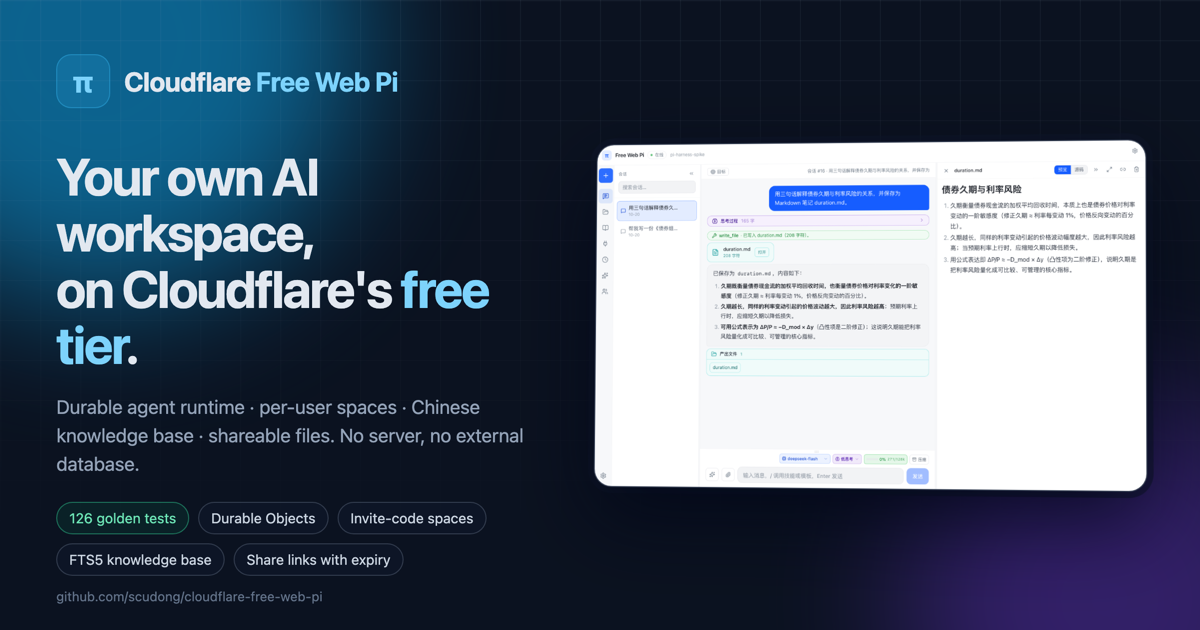
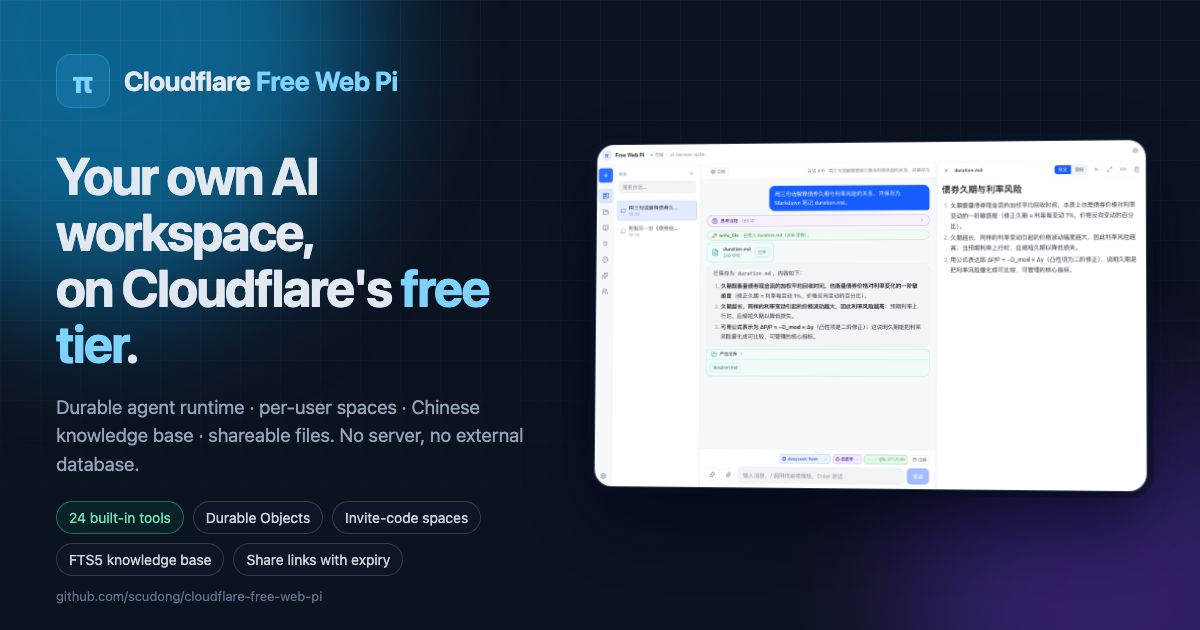
docs: 门户面清理——CI 徽章、在线地址、工具数与测试数对齐（v0.54.0）
- README 首页: 硬编码 tests-126 徽章换成 CI workflow 徽章（不再过期）；
  首屏加入在线地址 + 邀请码入口；测试数 126 → 128，并标注耗时约 40 秒
- README 首页: 内置工具数 27 → 24（按 src/worker.ts 实际注册清点）
- README.zh-CN: 补 icon / 徽章 / 语言切换首屏，与英文版对齐；
  版本里程碑从 v0.30 补到 v0.53；工具清单补齐 ask_user / set_goal /
  complete_goal / report_goal / install_skill 共 24 个；npm test 耗时 3 秒 → 40 秒
- marketing/social-preview.html: 过期 chip「126 golden tests」→「24 built-in tools」，
  重新生成 docs/social-preview.png 与 src/web/public/social-preview.png（1200×630）

diff --git a/marketing/social-preview.html b/marketing/social-preview.html
@@ -67,7 +67,7 @@
       <h1>Your own AI workspace,<br>on Cloudflare's <em>free tier</em>.</h1>
       <p class="sub">Durable agent runtime · per-user spaces · Chinese knowledge base · shareable files. No server, no external database.</p>
       <div class="chips">
-        <span class="chip hot">126 golden tests</span>
+        <span class="chip hot">24 built-in tools</span>
         <span class="chip">Durable Objects</span>
         <span class="chip">Invite-code spaces</span>
         <span class="chip">FTS5 knowledge base</span>

diff --git a/README.md b/README.md
@@ -9,12 +9,14 @@
 **Durable agent runtime · per-user spaces · Chinese knowledge base · files shared from your own domain.**<br>
 One Worker and Durable Objects. No server, no external database.
 
-[![Release](https://img.shields.io/github/v/release/scudong/cloudflare-free-web-pi?label=release&color=0ea5e9)](https://github.com/scudong/cloudflare-free-web-pi/releases) [![Stars](https://img.shields.io/github/stars/scudong/cloudflare-free-web-pi?style=flat&color=0ea5e9)](https://github.com/scudong/cloudflare-free-web-pi/stargazers) [![License](https://img.shields.io/badge/license-MIT-0ea5e9)](LICENSE) [![Tests](https://img.shields.io/badge/tests-126-22c55e)](tests)<br>
+[![Release](https://img.shields.io/github/v/release/scudong/cloudflare-free-web-pi?label=release&color=0ea5e9)](https://github.com/scudong/cloudflare-free-web-pi/releases) [![Stars](https://img.shields.io/github/stars/scudong/cloudflare-free-web-pi?style=flat&color=0ea5e9)](https://github.com/scudong/cloudflare-free-web-pi/stargazers) [![License](https://img.shields.io/badge/license-MIT-0ea5e9)](LICENSE) [![Deploy](https://github.com/scudong/cloudflare-free-web-pi/actions/workflows/deploy.yml/badge.svg)](https://github.com/scudong/cloudflare-free-web-pi/actions/workflows/deploy.yml)<br>
 ![Cloudflare Workers](https://img.shields.io/badge/Cloudflare-Workers-F38020?logo=cloudflare&logoColor=white) ![Durable Objects](https://img.shields.io/badge/Durable%20Objects-SQLite-0ea5e9) ![React](https://img.shields.io/badge/React-19-61DAFB?logo=react&logoColor=white) ![TypeScript](https://img.shields.io/badge/TypeScript-3178C6?logo=typescript&logoColor=white)
 
-**English** · [简体中文](README.zh-CN.md) · [Quick start](#quick-start) · [Features](#what-you-get) · [How it works](#how-it-works) · [Deploy](#deploy)
+**English** · [简体中文](README.zh-CN.md) · [Live site](https://pi-harness-gw.pages.dev) · [Quick start](#quick-start) · [Features](#what-you-get) · [How it works](#how-it-works) · [Deploy](#deploy)
 
 <img src="docs/screenshot.png" width="880" alt="Chat with tool calls, a Markdown file preview, and the knowledge base in the left rail">
+
+<sub>Live: **[pi-harness-gw.pages.dev](https://pi-harness-gw.pages.dev)** · password-protected instance — request an invite code in [Discussions](https://github.com/scudong/cloudflare-free-web-pi/discussions).</sub>
 
 </div>
 
@@ -36,7 +38,7 @@ Cloudflare Free Web Pi is the opposite: a workspace you deploy to your own Cloud
 - **Per-user spaces.** Invite codes; each user gets their own Durable Object — sessions, files, memory, knowledge base, and share tokens are isolated. The owner issues, resets, and revokes codes from the UI.
 - **Files with a share button — on your own domain.** The agent writes Markdown and HTML into a workbench. One click produces a public page served from your Cloudflare domain (the default `*.pages.dev` subdomain, or a custom domain you bind) with an expiry (1 hour to forever), four themes, and a table of contents.
 - **A knowledge base that answers first.** Per-user FTS5 index with Chinese bigram tokenization and bm25. The top 3 chunks are injected before every turn; the model can also call `kb_search` itself. Switch to Vectorize + bge-m3, or hybrid retrieval (RRF), in Settings.
-- **Real tools.** 27 built-in tools in the default install: web search, MCP servers, skills, prompts, rules, custom JS tools, parallel subagents, and a QuickJS codemode sandbox.
+- **Real tools.** 24 built-in tools in the default install: web search, MCP servers, skills, prompts, rules, custom JS tools, parallel subagents, and a QuickJS codemode sandbox.
 - **Control and visibility.** Read/write/exec tool approvals with per-tool overrides, thinking levels, a context meter, manual compaction, step plans, and structured `ask_user` cards.
 - **Chinese-first, four themes.** The UI, prompts, and docs are written in Chinese; light, dark, sepia, and midnight themes; pages.dev proxy for access from mainland China.
 
@@ -56,7 +58,7 @@ npx wrangler dev     # Worker + Durable Objects: http://localhost:8787
 
 Open `http://localhost:5173`, enter the password, and start a conversation. The full Chinese setup guide, feature table, and HTTP API reference are in [README.zh-CN.md](README.zh-CN.md).
 
-Run the golden tests with `npm test` — 126 unit, API, and multi-user isolation tests, including real `wrangler dev` instances.
+Run the golden tests with `npm test` — 128 unit, API, and multi-user isolation tests, including real `wrangler dev` instances (about 40 seconds).
 
 ## How it works
 
@@ -76,7 +78,7 @@ npx wrangler secret put ACCESS_PASSWORD
 npx wrangler deploy
 ```
 
-Or push to `main` and let GitHub Actions deploy. Add `CLOUDFLARE_API_TOKEN`, `CLOUDFLARE_ACCOUNT_ID`, and `SMOKE_PASSWORD` to the repository secrets; CI runs the 126 tests, deploys, and smoke-tests the live Worker.
+Or push to `main` and let GitHub Actions deploy. Add `CLOUDFLARE_API_TOKEN`, `CLOUDFLARE_ACCOUNT_ID`, and `SMOKE_PASSWORD` to the repository secrets; CI runs the 128 tests, deploys, and smoke-tests the live Worker.
 
 ## Is it for you?
 

diff --git a/README.zh-CN.md b/README.zh-CN.md
@@ -1,10 +1,18 @@
+<div align="center">
+
+<img src="docs/icon.svg" width="96" alt="Cloudflare Free Web Pi">
+
 # Cloudflare Free Web Pi（π Harness）
 
-[English](README.md) · **简体中文**
+[![Release](https://img.shields.io/github/v/release/scudong/cloudflare-free-web-pi?label=release&color=0ea5e9)](https://github.com/scudong/cloudflare-free-web-pi/releases) [![Stars](https://img.shields.io/github/stars/scudong/cloudflare-free-web-pi?style=flat&color=0ea5e9)](https://github.com/scudong/cloudflare-free-web-pi/stargazers) [![License](https://img.shields.io/badge/license-MIT-0ea5e9)](LICENSE) [![Deploy](https://github.com/scudong/cloudflare-free-web-pi/actions/workflows/deploy.yml/badge.svg)](https://github.com/scudong/cloudflare-free-web-pi/actions/workflows/deploy.yml)
+
+[English](README.md) · **简体中文** · [在线地址](https://pi-harness-gw.pages.dev) · [快速开始](#快速开始)
+
+</div>
 
 把 [pi](https://github.com/earendil-works/pi) 的 **durable harness 内核**跑在 Cloudflare Worker 上：会话、工具调用、记忆、文件全部持久化在 Durable Object 的 SQLite 里，不依赖任何外部数据库。
 
-- **在线地址**：https://pi-harness-gw.pages.dev （pages.dev 反代，中国大陆可达）
+- **在线地址**：https://pi-harness-gw.pages.dev （pages.dev 反代，中国大陆可达；需访问密码，邀请码可向作者索取）
 - **运行成本**：Cloudflare 免费额度内；模型走 DeepSeek（按量计费，个人用量每月几元）
 
 > 本项目是社区项目，与 Cloudflare, Inc. 无隶属关系；Cloudflare、Workers、Durable Objects 是其商标。
@@ -60,7 +68,7 @@ Cloudflare Worker（静态前端 + API 入口）
 
 ```bash
 npm install
-npm test                     # 金标回归（单元 + 接口），约 3 秒
+npm test                     # 金标回归（单元 + 接口），约 40 秒
 
 # 本地开发（.dev.vars 里放密钥）
 echo "DEEPSEEK_API_KEY=sk-..." >> .dev.vars
@@ -123,7 +131,9 @@ npx wrangler deploy
 
 ## 内置工具
 
-`now` · `remember` · `recall` · `kb_search` · `kb_add` · `kb_list` · `kb_delete` · `update_plan` · `dispatch_tasks` · `list_skills` · `load_skill` · `web_search` · `web_fetch_page` · `http_fetch` · `write_file` · `read_file` · `list_files` · `codemode` · `tool_search`，以及所有已配置 MCP 服务器的工具（`mcp__<服务器>__<工具>`）。
+`now` · `remember` · `recall` · `kb_search` · `kb_add` · `kb_list` · `kb_delete` · `update_plan` · `dispatch_tasks` · `list_skills` · `load_skill` · `install_skill` · `web_search` · `web_fetch_page` · `http_fetch` · `write_file` · `read_file` · `list_files` · `codemode` · `tool_search` · `set_goal` · `complete_goal` · `report_goal` · `ask_user`，以及所有已配置 MCP 服务器的工具（`mcp__<服务器>__<工具>`）。
+
+共 24 个内置工具；另可在左栏「技能 → 自定义工具」用 JS 写自定义工具。
 
 ---
 
@@ -157,7 +167,7 @@ CHANGELOG.md             # 逐版本更新记录
 
 完整记录见 [CHANGELOG.md](./CHANGELOG.md)。里程碑：
 
-`v0.10` 访问密码 · `v0.11` 主题 · `v0.12` 图片输入 · `v0.13` 工具搜索 · `v0.14` 备份恢复 · `v0.15` 技能/预览 · `v0.16` 右栏可伸缩 · `v0.17` 社区技能 · `v0.18` Browserbase 云端浏览器 · `v0.19` 服务端停止 · `v0.20` 设置页/联网搜索 · `v0.21` 左栏工具栏 · `v0.22` 思考/计划/轨迹 · `v0.23` 输入框调用技能 · `v0.24` 四套主题 · `v0.25` Arco 色卡 · `v0.26` 设置分 tab · `v0.27` 模型供应商 · `v0.28` 金标回归 · `v0.29` 子代理编排 · `v0.30` 能力注册表
+`v0.10` 访问密码 · `v0.11` 主题 · `v0.12` 图片输入 · `v0.13` 工具搜索 · `v0.14` 备份恢复 · `v0.15` 技能/预览 · `v0.16` 右栏可伸缩 · `v0.17` 社区技能 · `v0.18` Browserbase 云端浏览器 · `v0.19` 服务端停止 · `v0.20` 设置页/联网搜索 · `v0.21` 左栏工具栏 · `v0.22` 思考/计划/轨迹 · `v0.23` 输入框调用技能 · `v0.24` 四套主题 · `v0.25` Arco 色卡 · `v0.26` 设置分 tab · `v0.27` 模型供应商 · `v0.28` 金标回归 · `v0.29` 子代理编排 · `v0.30` 能力注册表 · `v0.49` README 英文首页 · `v0.50` 流量计划与素材 · `v0.51` 前 7 天逐日文案 · `v0.52` 独立域名分享 · `v0.53` 知识库向量检索
 
 ## 致谢
 
